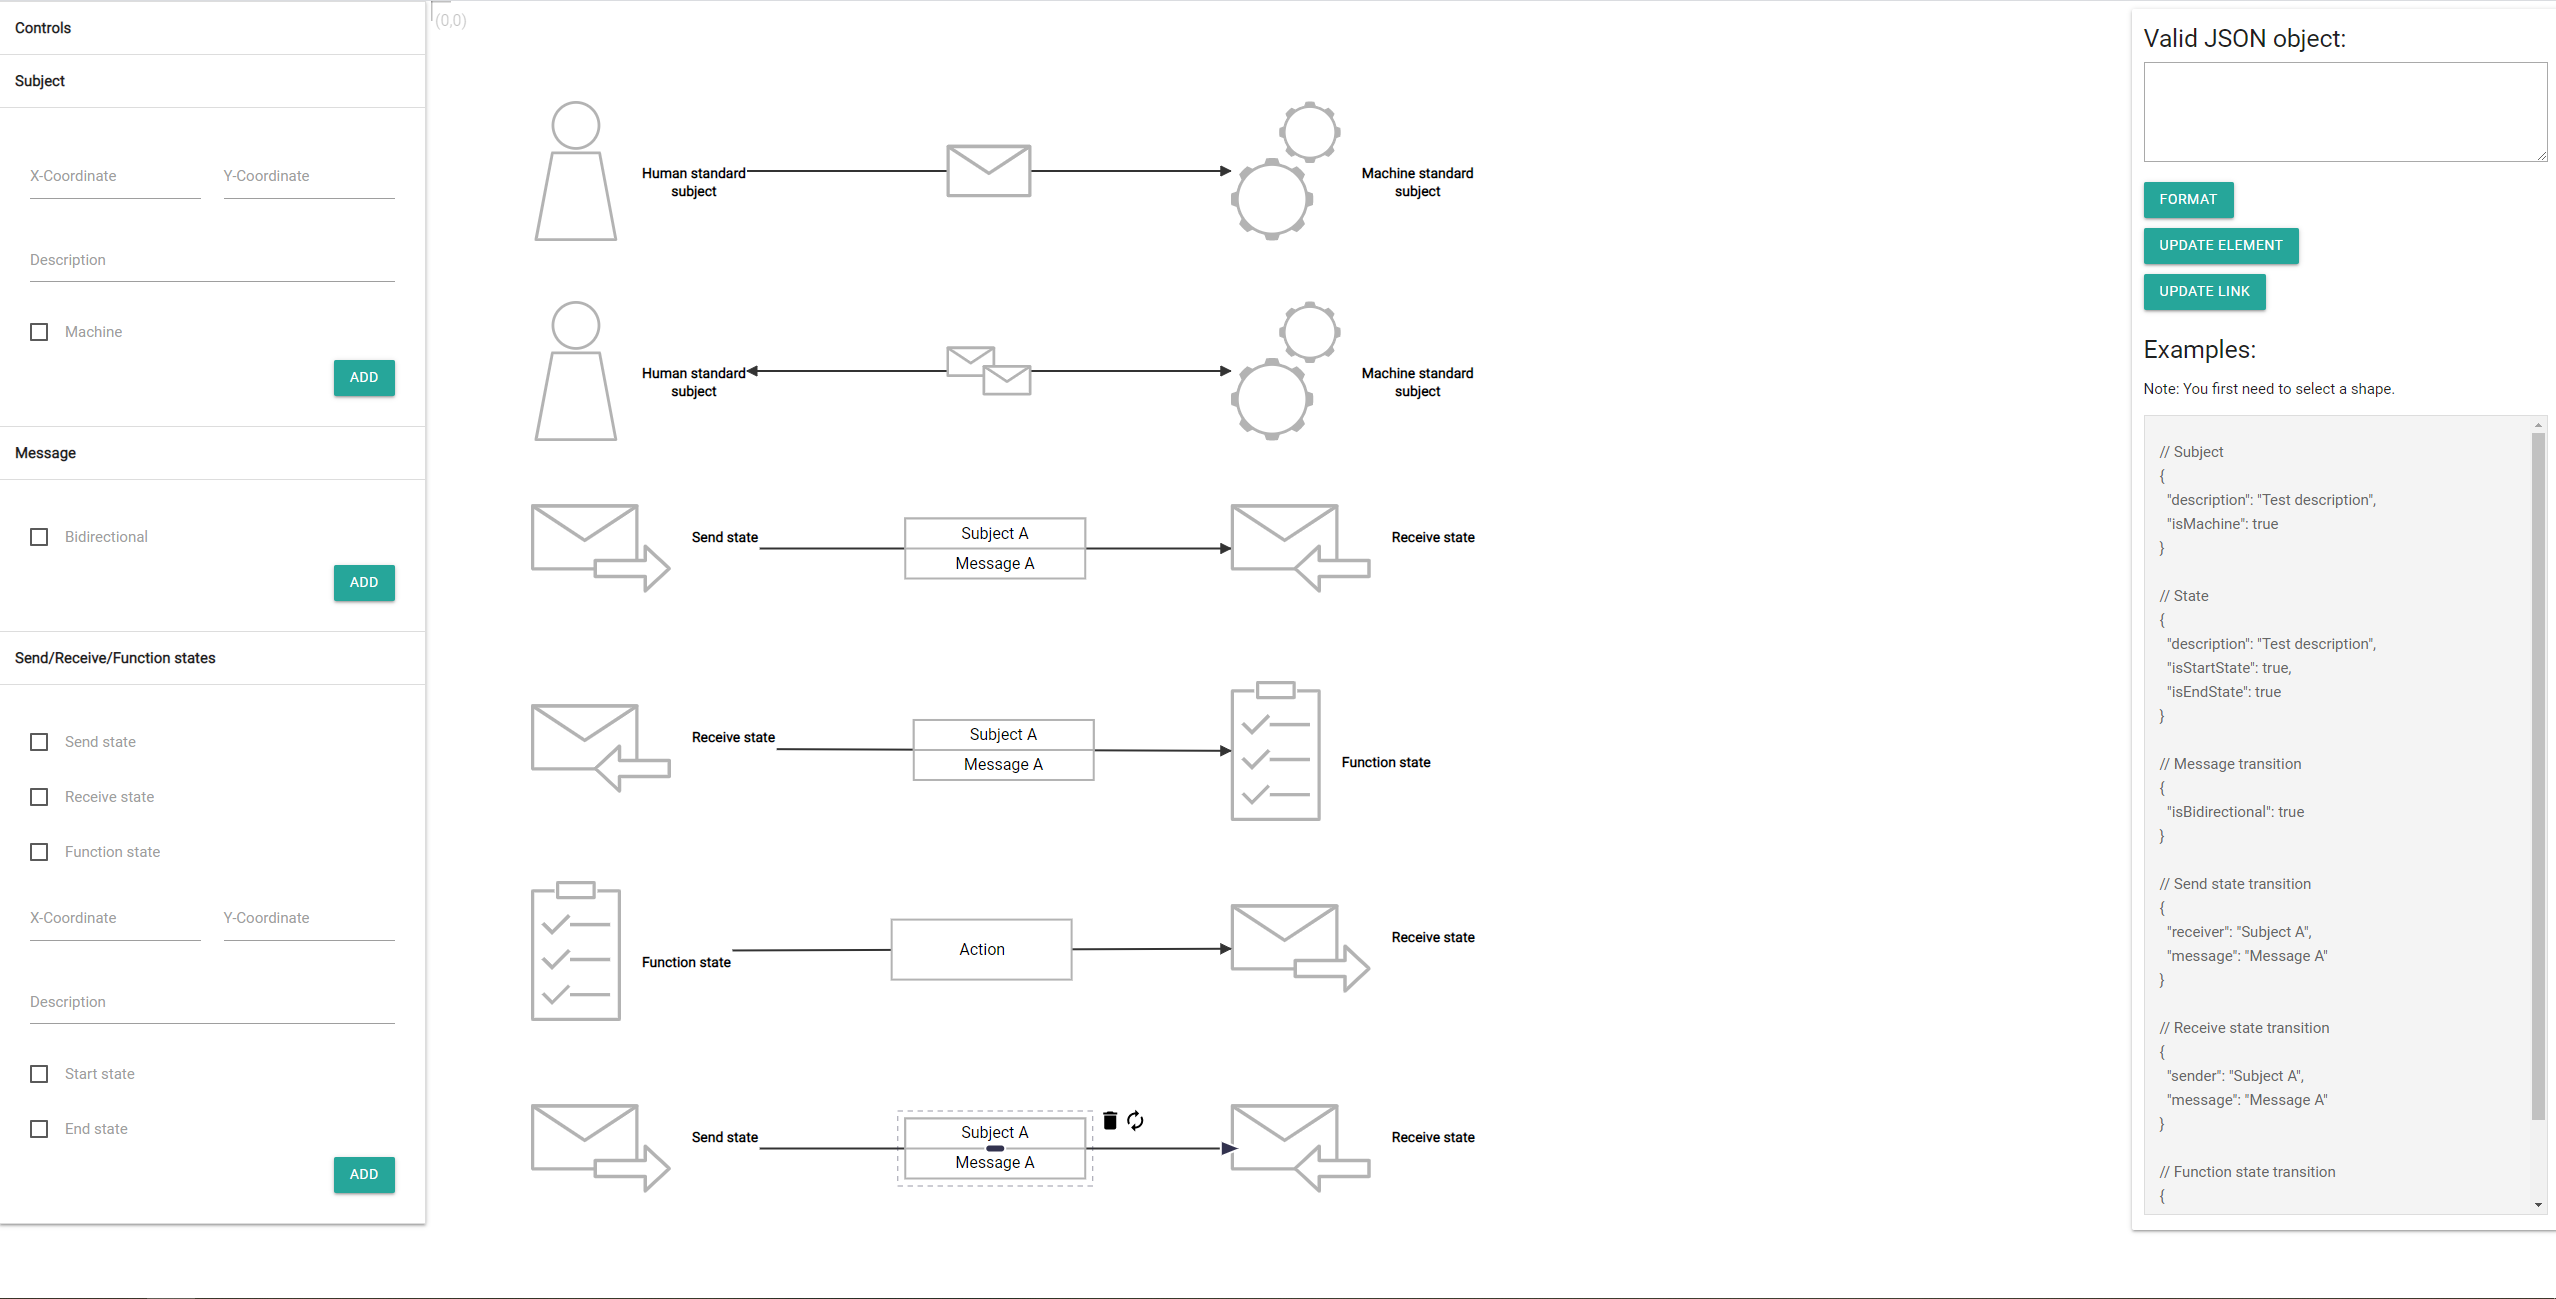
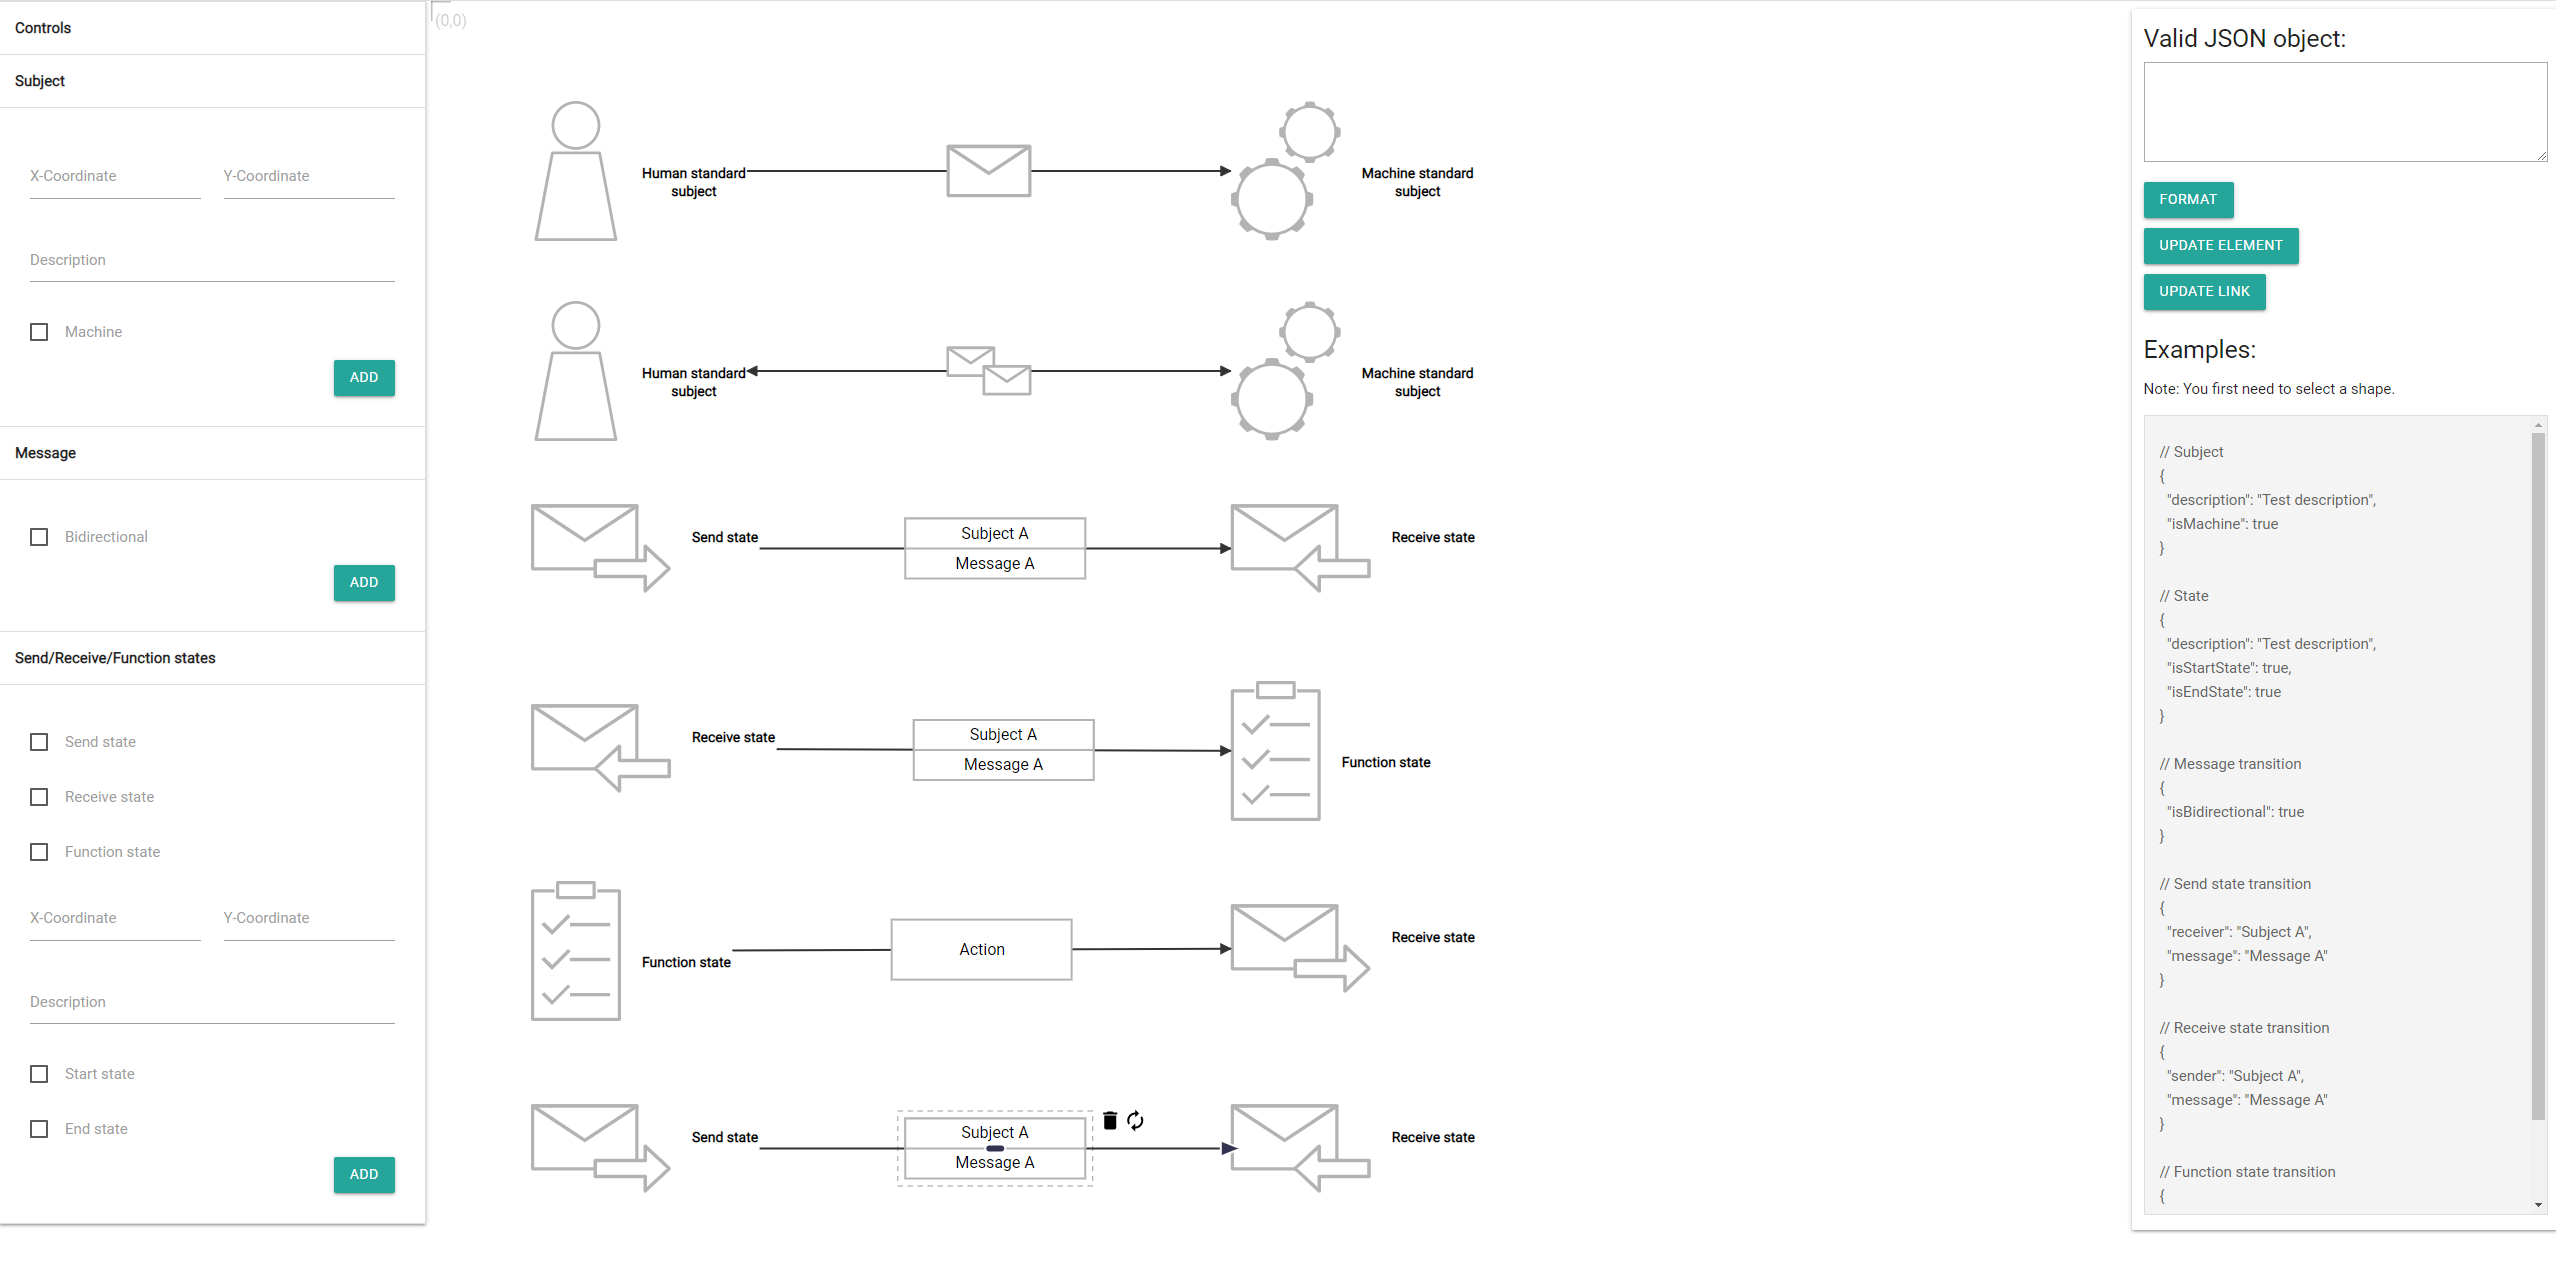
chore(modeler): readme file example app

diff --git a/packages/sbpm-modeler/example/README.md b/packages/sbpm-modeler/example/README.md
@@ -2,6 +2,6 @@
 
 Example application for demonstration of the sbpm-modeler library.
 
-<p align="center">
+<p align="center" style="border: 1px solid black;">
   <img src="https://raw.githubusercontent.com/mkolodiy/sbpmjs/master/packages/sbpm-modeler/example/docs/example.PNG" alt="Example application" />
 </p>
